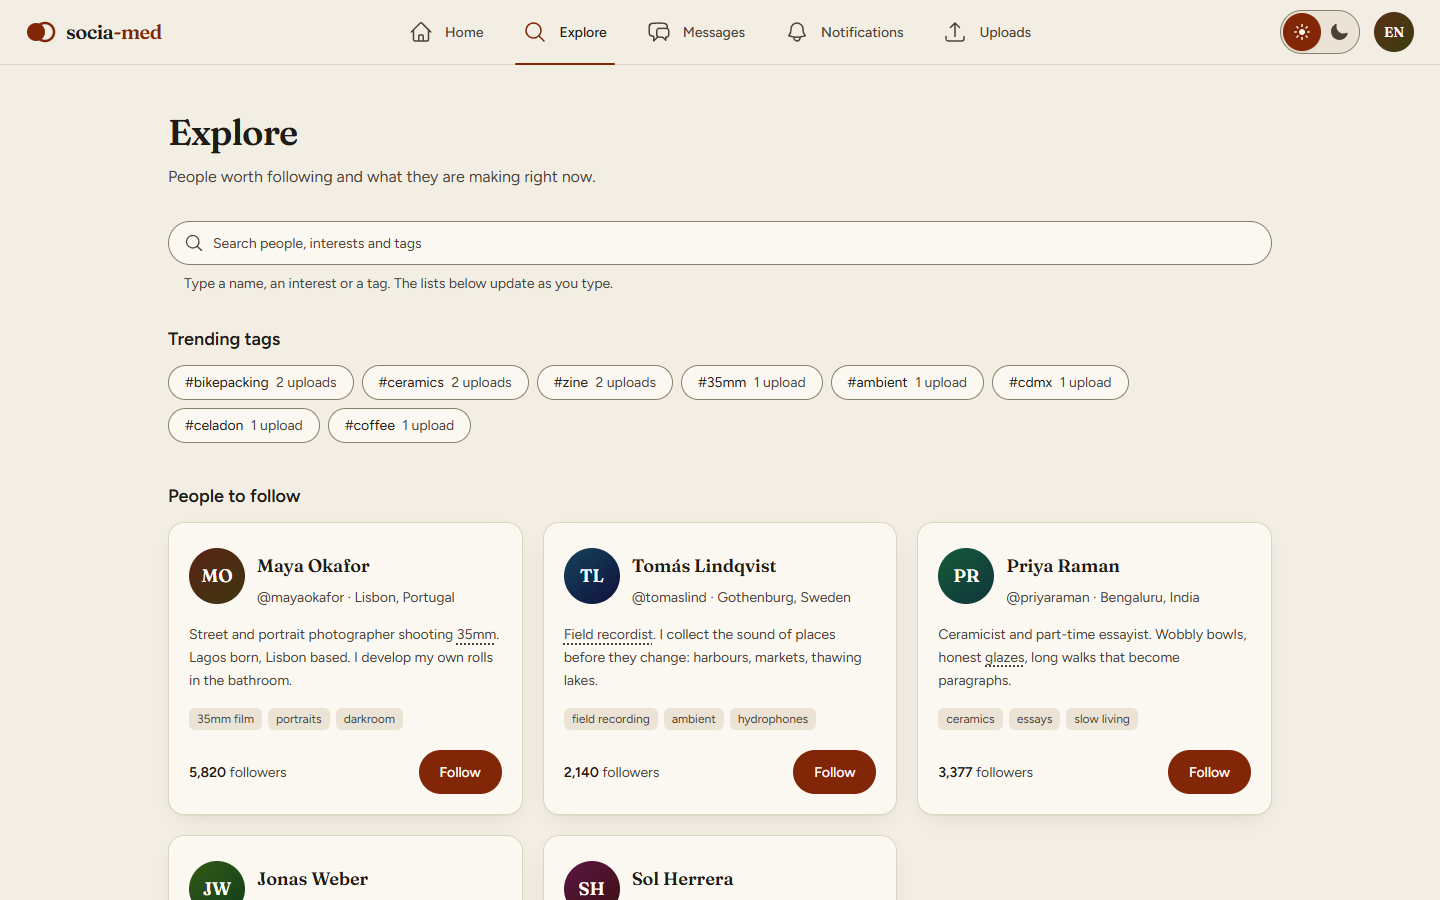
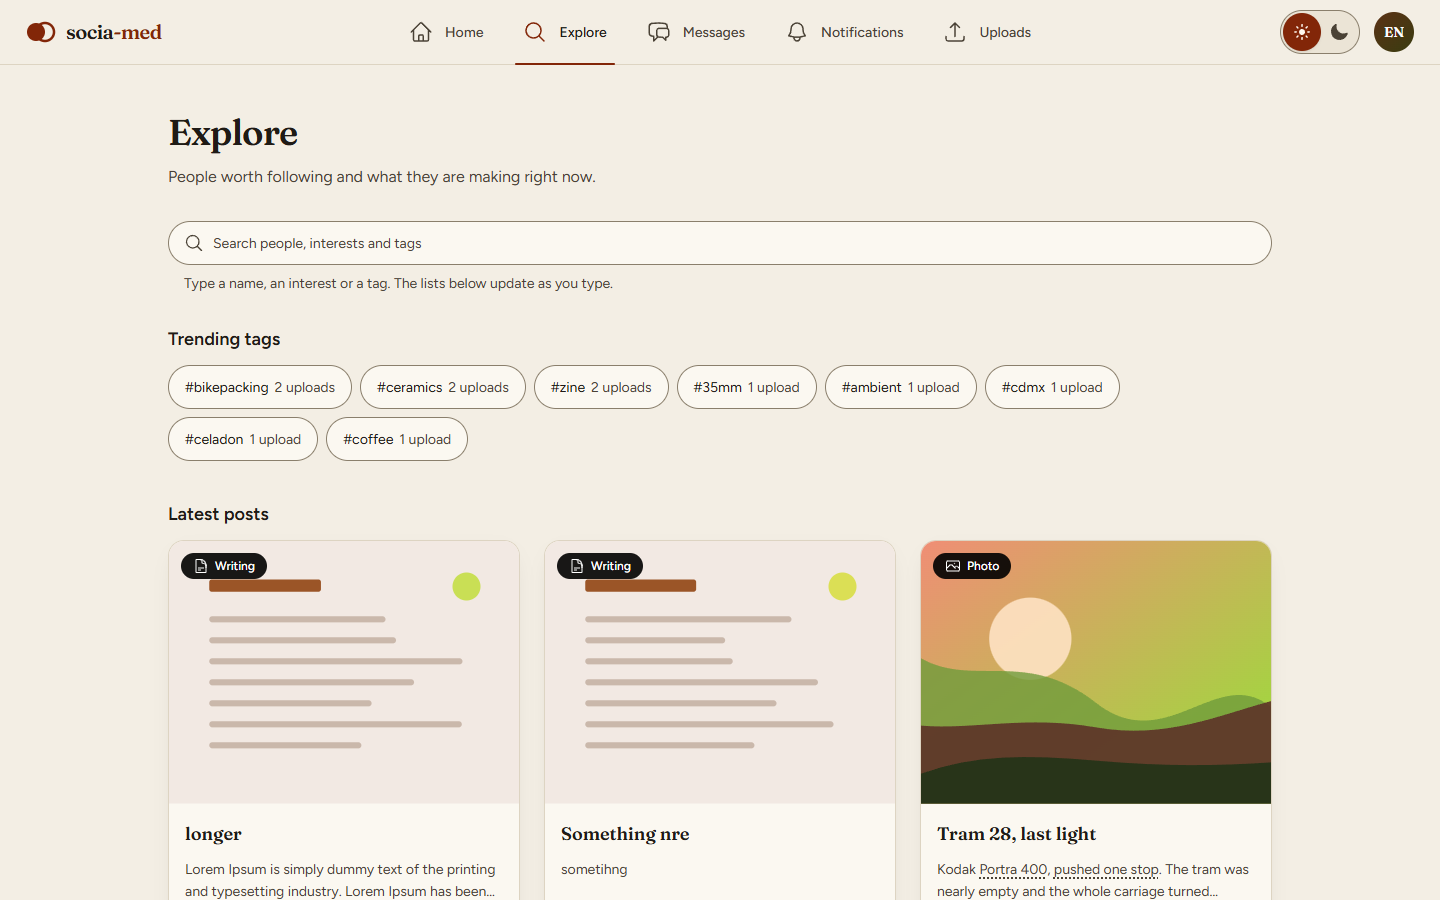
prepared for 0.3.0 release

diff --git a/README.md b/README.md
@@ -2,7 +2,7 @@
 
 A social media app for sharing creative work: photographs, recordings, rides and essays. Follow people, explore what they are making, message them and keep track of uploads.
 
-> **Status:** v0.2.1. The app reads and writes MongoDB through the Express API, and can be deployed as a live demo on Render. Run `npm run seed` once to fill an empty database with sample data; after that, changes made directly in MongoDB show up in the app the next time the tab is focused or reloaded.
+> **Status:** v0.3.0. The app reads and writes MongoDB through the Express API, and can be deployed as a live demo on Render. Run `npm run seed` once to fill an empty database with sample data; after that, changes made directly in MongoDB show up in the app the next time the tab is focused or reloaded.
 
 ## Try it
 
@@ -18,7 +18,7 @@ To run it yourself you need Node.js and a MongoDB database; see [Getting started
 
 ![Home](docs/screenshots/home.png)
 
-**Explore** – trending tags and suggested people to follow.
+**Explore** – trending tags, the latest posts and suggested people to follow.
 
 ![Explore](docs/screenshots/explore.png)
 
@@ -36,11 +36,11 @@ To run it yourself you need Node.js and a MongoDB database; see [Getting started
 
 ## Features
 
-- **Home**: a feed of recent uploads from the people you follow.
-- **Explore**: trending tags and suggested people to follow.
+- **Home**: a feed of recent uploads from the people you follow, filtered by one or more types.
+- **Explore**: trending tags (pick one to see its posts), the latest posts and suggested people to follow.
 - **Messages**: conversation list and threads, with unread counts.
 - **Notifications**: activity feed with an unread badge.
-- **Uploads**: all uploads, or those of a single user.
+- **Uploads**: your own uploads from the header tab, or those of any user from their profile.
 - **Profiles**: bio, interests, follower count and uploads.
 - **Posts**: create photo, audio, video and writing posts from your profile, and edit or delete your own.
 - **Likes, follows and messages** are saved to the database.

diff --git a/CHANGELOG.md b/CHANGELOG.md
@@ -6,6 +6,23 @@ The format is based on [Keep a Changelog](https://keepachangelog.com/en/1.1.0/),
 
 ## [Unreleased]
 
+## [0.3.0] - 2026-11-06
+
+### Added
+
+- Explore now has a "Latest posts" section with the full post cards. The trending tags are buttons: pick one to show only the posts with that tag (selected with a tick, and announced to screen readers), pick it again to clear it.
+- "Read more" on a post card opens the full title and description in a dialog (with the author, time and tags) when the card had to cut them short. It only appears when the text is actually cut off at that card width.
+- A shrugging figure above "Nothing here yet." on empty Home and Uploads pages.
+
+### Changed
+
+- The type filter on Home and Uploads lets you pick several types at once (for example Photos and Audio). "All" clears the selection, and deselecting the last type goes back to "All".
+- Home shows other people's work only; your own posts are on the Uploads page.
+- The Uploads tab in the header now opens your own uploads and is only highlighted there. The "Show everyone's uploads" link on a user's uploads page is removed; other people's uploads are reached from their profiles.
+- Post cards in a row are the same height: the title and description take a fixed amount of room (two lines each), so tags and the author line start in the same place on every card.
+- The footer stays at the bottom of the window on short pages.
+- Every button now shows the pointer (hand) cursor, except when disabled.
+
 ## [0.2.1] - 2026-11-03
 
 ### Added
